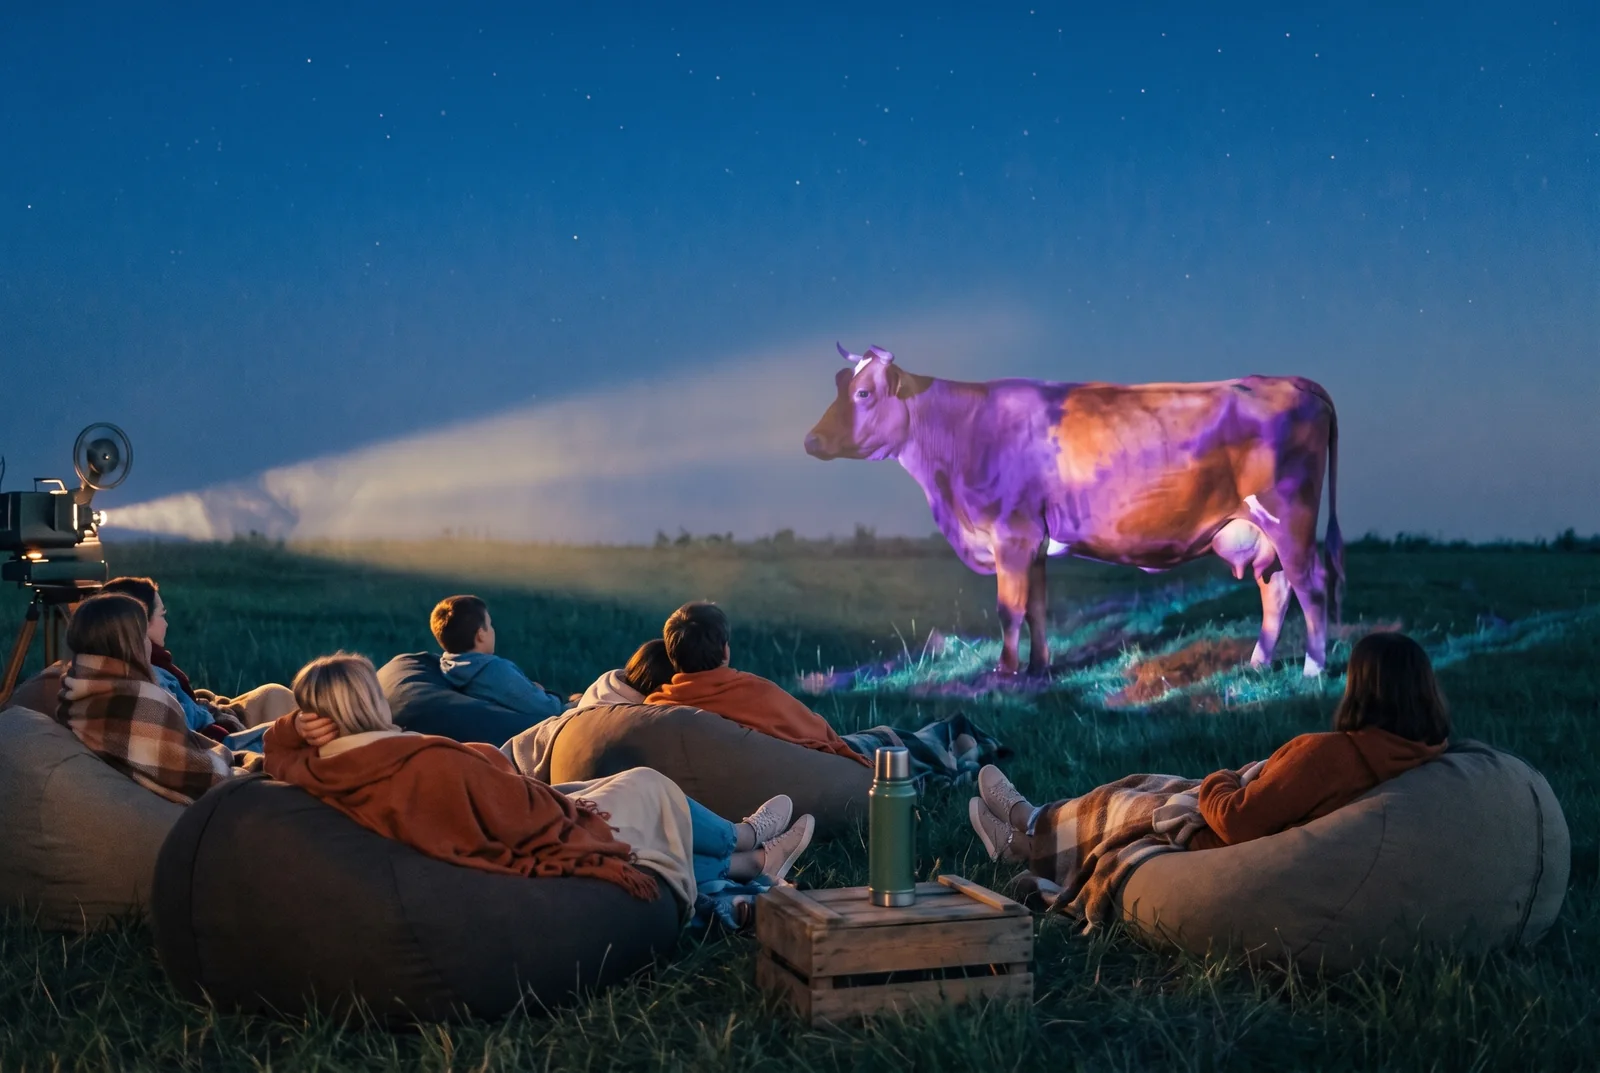
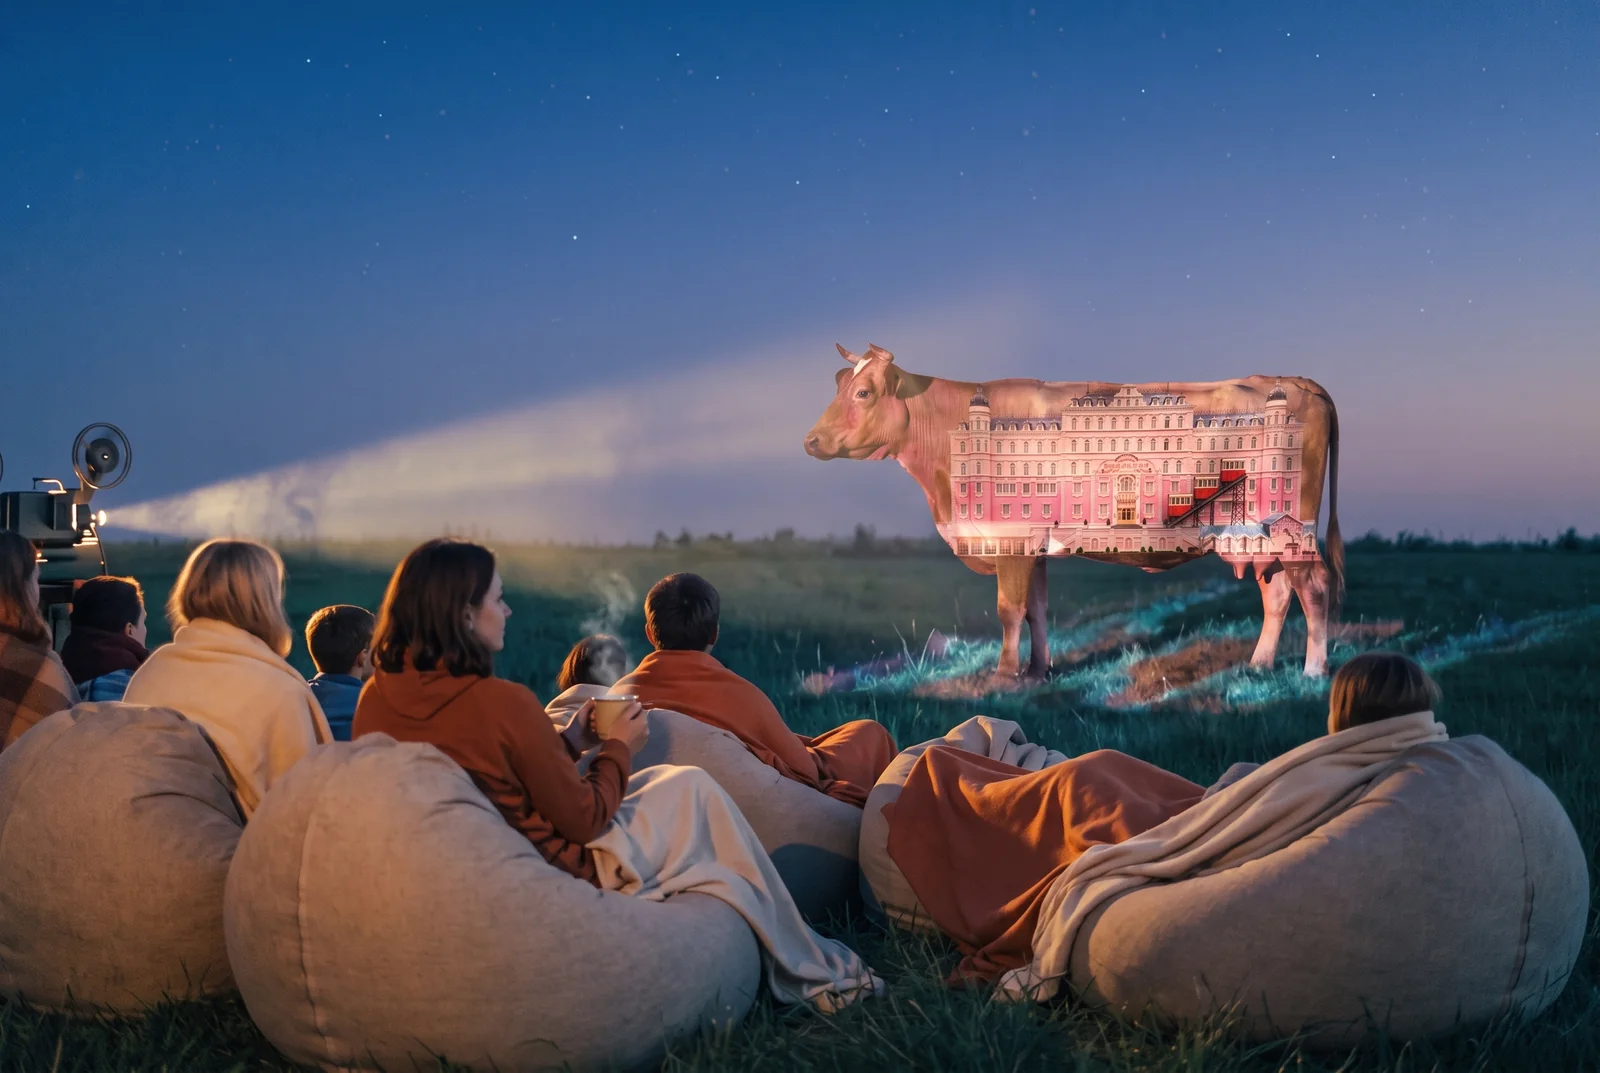
Фильмы про цвет: вторая картинка — другой кадр на корове и чашка чая
Была почти дублем обложки. Теперь на корове розовый отель, у зрительницы кружка,
сцена та же — видно, что меняется кадр, а не корова.

diff --git a/journal/filmy-pro-cvet.html b/journal/filmy-pro-cvet.html
@@ -130,8 +130,8 @@
       </ul>
 
       <figure class="article__figure" style="padding:0">
-        <img src="../assets/img/journal/kino/polyana.webp" width="1600" height="1073" alt="Кино под открытым небом: зрители на пуфах с пледами и термосом, луч проектора и фиолетовая корова вместо экрана">
-        <figcaption>Термос, плед и фиолетовая корова: осенний комплект для просмотра.</figcaption>
+        <img src="../assets/img/journal/kino/polyana.webp" width="1600" height="1073" alt="Тот же вечер позже: на корове теперь другой кадр — розовый симметричный отель, а у зрительницы на пуфе в руках дымящаяся кружка чая">
+        <figcaption>Кадр сменился — сменился и цвет вечера. Экран тот же.</figcaption>
       </figure>
 
       <h2 class="h-gold">Кино, где цвет — главный герой</h2>
